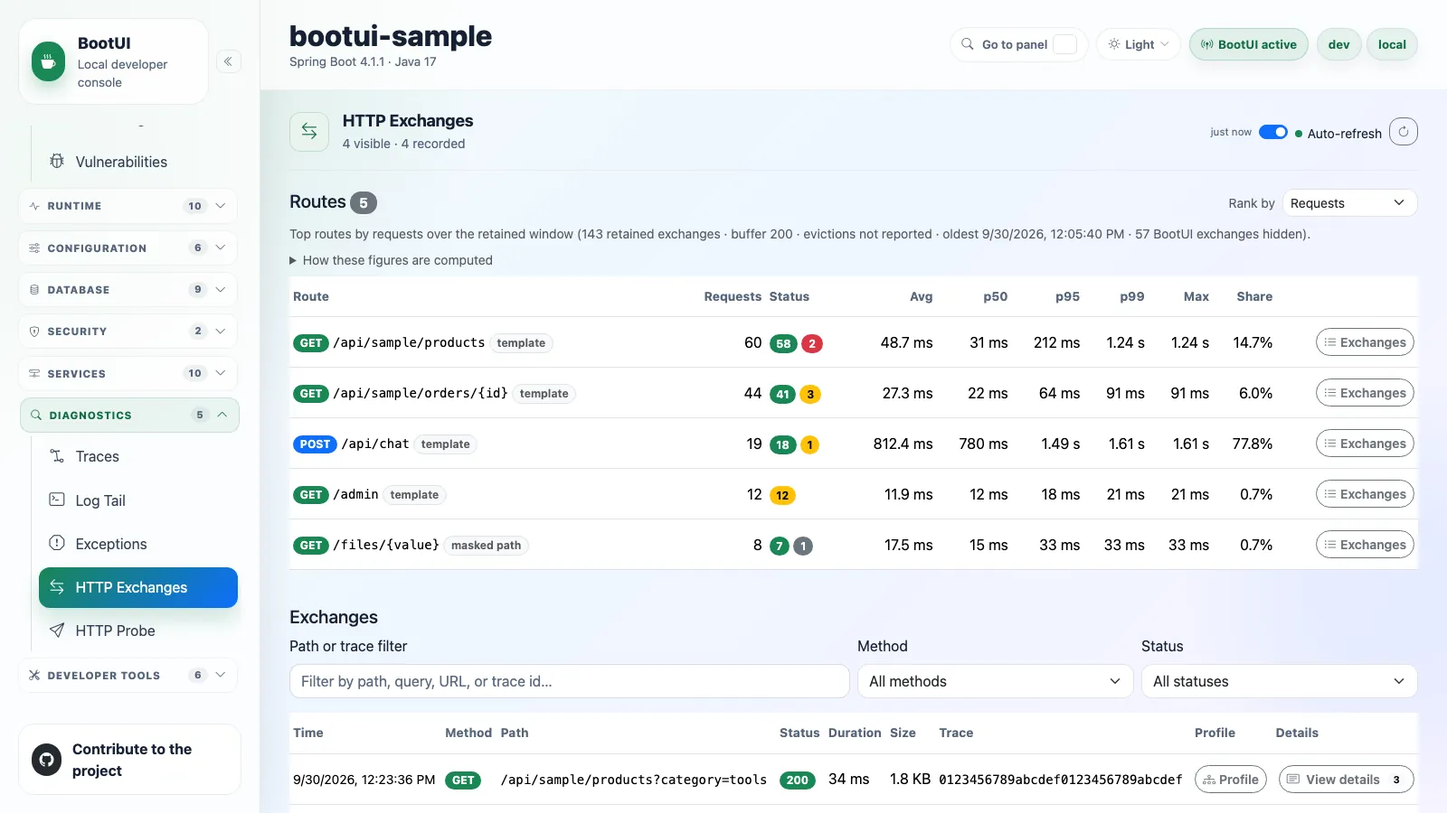
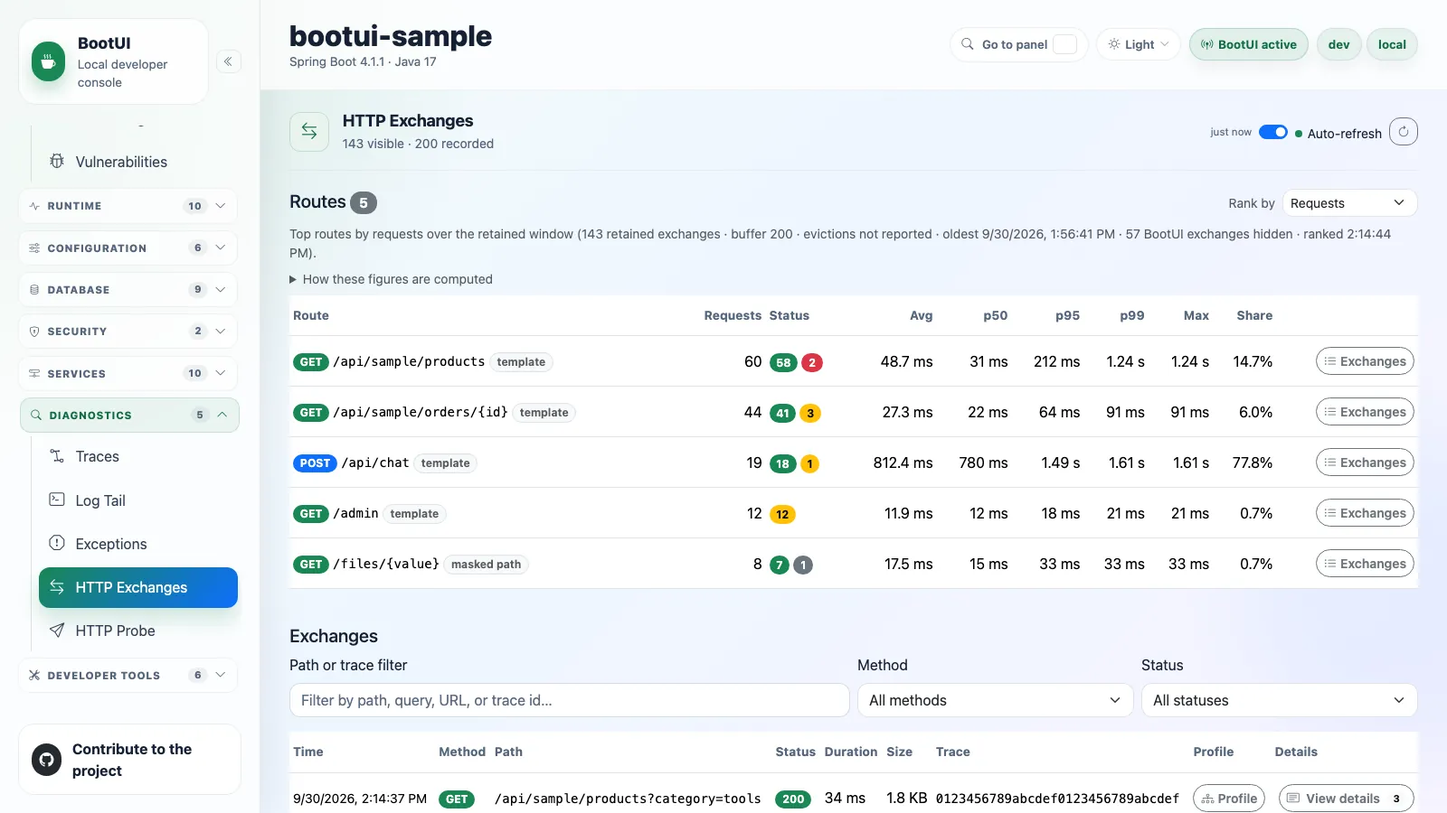
fix(http-exchanges): address verification-round findings
- Treat escaped braces in a variable pattern as regex text in both
  template scanners.
- Publish only the newest route-ranking response, so an older, unpinned
  response can never replace a newer pinned one.
- Count omitted routes against the rows actually displayed, pinned row
  included, and state omissions when no route scores on the criterion.
- Match Quarkus declared JAX-RS routes under quarkus.http.root-path and
  quarkus.rest.path, so a root-path application resolves its routes.
- Document that same-name variables with different patterns share a row,
  and make the docs screenshot fixtures consistent across panels.

diff --git a/bootui-ui/src/main/frontend/src/views/HttpExchanges.vue b/bootui-ui/src/main/frontend/src/views/HttpExchanges.vue
@@ -80,6 +80,9 @@ const subtitle = computed(
 
 let lastRoutesFetch = 0
 let forceNextRoutes = false
+// Only the newest ranking request may publish, so a slower, older response can never replace a newer one,
+// such as the response that pins a just-linked route.
+let routesGeneration = 0
 const routesFetchedAt = ref(null)
 
 async function loadRoutes(force = false) {
@@ -89,11 +92,15 @@ async function loadRoutes(force = false) {
   // Pinning the linked route makes the server return its row even when it is outside every top list.
   const pinned = highlightedRoute.value
   const url = pinned ? `api/http-exchanges/routes?route=${encodeURIComponent(pinned)}` : 'api/http-exchanges/routes'
+  const generation = ++routesGeneration
   try {
-    routesReport.value = await getJson(url)
+    const report = await getJson(url)
+    if (generation !== routesGeneration) return
+    routesReport.value = report
     routesError.value = null
     routesFetchedAt.value = Date.now()
   } catch (e) {
+    if (generation !== routesGeneration) return
     routesReport.value = null
     routesError.value = e?.message ? `Could not load route rankings: ${e.message}` : 'Could not load route rankings.'
   }
@@ -165,15 +172,16 @@ const displayedRoutes = computed(() =>
 const distinctRoutes = computed(() => routesReport.value?.distinctRoutes ?? allRoutes.value.length)
 
 // Why routes are missing from this ranking: the per-criterion cap, or a zero score on the criterion.
+// Why retained routes are not on screen: the per-criterion cap, a zero score on the criterion, or, when nothing
+// scores, the bounded union the server returned. Counted against the rows actually displayed, pinned row included.
 const rankingGap = computed(() => {
-  if (rankingMetricUnmeasured.value) return null
-  const shown = rankedRoutes.value.length
-  const missing = distinctRoutes.value - shown
+  const missing = distinctRoutes.value - displayedRoutes.value.length
   if (missing <= 0) return null
+  if (rankingMetricUnmeasured.value) return {reason: 'unranked', missing}
   // The server lists at most topPerCriterion routes for a criterion, taken from those that score on it. A
   // shorter list therefore already holds every scoring route, and the rest record nothing for this criterion.
-  const capped = shown >= (routesReport.value?.topPerCriterion ?? Infinity)
-  return {capped, missing}
+  const capped = rankedRoutes.value.length >= (routesReport.value?.topPerCriterion ?? Infinity)
+  return {reason: capped ? 'capped' : 'unscored', missing}
 })
 
 const highlightedRouteMissing = computed(
@@ -567,10 +575,15 @@ onMounted(() => {
       </div>
 
       <p v-if="rankingGap" class="text-muted small mb-0 http-routes-truncation">
-        <template v-if="rankingGap.capped">
+        <template v-if="rankingGap.reason === 'capped'">
           Showing the top {{ formatNumber(rankedRoutes.length) }} of {{ formatNumber(distinctRoutes) }} retained routes
           by {{ rankingMetricLabel.toLowerCase() }}; {{ formatNumber(rankingGap.missing) }} more
           {{ rankingGap.missing === 1 ? 'route is' : 'routes are' }} not shown.
+        </template>
+        <template v-else-if="rankingGap.reason === 'unranked'">
+          Showing {{ formatNumber(displayedRoutes.length) }} of {{ formatNumber(distinctRoutes) }} retained routes;
+          {{ formatNumber(rankingGap.missing) }} more {{ rankingGap.missing === 1 ? 'route is' : 'routes are' }} not
+          shown.
         </template>
         <template v-else>
           {{ formatNumber(rankingGap.missing) }} of {{ formatNumber(distinctRoutes) }} retained

diff --git a/bootui-ui/src/main/frontend/src/views/HttpExchanges.test.js b/bootui-ui/src/main/frontend/src/views/HttpExchanges.test.js
@@ -15,8 +15,12 @@ const RouterLinkStub = {
   template: '<a class="router-link-stub" :data-to="JSON.stringify(to)"><slot /></a>'
 }
 
+const mounted = []
+
 function mountExchanges() {
-  return mount(HttpExchanges, {global: {stubs: {RouterLink: RouterLinkStub}}})
+  const wrapper = mount(HttpExchanges, {global: {stubs: {RouterLink: RouterLinkStub}}})
+  mounted.push(wrapper)
+  return wrapper
 }
 
 function jsonResponse(body, ok = true, status = 200) {
@@ -61,6 +65,8 @@ describe('HTTP Exchanges', () => {
   afterEach(() => {
     vi.unstubAllGlobals()
     vi.useRealTimers()
+    // The route is shared and reactive, so a component left mounted would react to the next test's links.
+    mounted.splice(0).forEach((wrapper) => wrapper.unmount())
     routeState.query = {}
     router.replace.mockClear()
   })
@@ -368,6 +374,66 @@ describe('HTTP Exchanges', () => {
 
       expect(wrapper.find('.http-routes-truncation').text()).toContain('Showing the top 1 of 2 retained routes')
       expect(wrapper.find('.http-routes-truncation').text()).not.toContain('record no')
+    })
+
+    it('never lets an older ranking response replace a newer pinned one', async () => {
+      const pending = []
+      vi.stubGlobal(
+        'fetch',
+        vi.fn((url) => {
+          if (!String(url).startsWith('api/http-exchanges/routes')) return Promise.resolve(jsonResponse(report()))
+          return new Promise((resolve) => pending.push({url: String(url), resolve}))
+        })
+      )
+      const wrapper = mountExchanges()
+      await flushPromises()
+      expect(pending).toHaveLength(1)
+
+      routeState.query = {route: 'GET /rare'}
+      await flushPromises()
+      expect(pending).toHaveLength(2)
+      expect(pending[1].url).toContain('route=GET%20%2Frare')
+
+      pending[1].resolve(
+        jsonResponse(routesReport({routes: [route(), route({id: 'GET /rare', route: '/rare', topFor: []})]}))
+      )
+      await flushPromises()
+      pending[0].resolve(jsonResponse(routesReport()))
+      await flushPromises()
+
+      expect(wrapper.find('.http-routes-table tbody tr[data-route-id="GET /rare"]').exists()).toBe(true)
+      expect(wrapper.find('.http-routes-linked-hidden').exists()).toBe(false)
+    })
+
+    it('counts the pinned row as shown and states omissions when nothing scores', async () => {
+      routeState.query = {route: 'GET /rare'}
+      stubFetch(
+        routesReport({
+          routes: [route(), route({id: 'GET /rare', route: '/rare', topFor: []})],
+          topPerCriterion: 1,
+          routesTruncated: true,
+          distinctRoutes: 30
+        })
+      )
+      const wrapper = mountExchanges()
+      await flushPromises()
+
+      expect(wrapper.find('.http-routes-truncation').text()).toContain('28 more routes are not shown')
+
+      await wrapper.find('#http-routes-metric').setValue('errorCount')
+      stubFetch(
+        routesReport({
+          routes: [route({errorCount: 0, status4xx: 0, status5xx: 0, topFor: ['REQUESTS']})],
+          topPerCriterion: 1,
+          routesTruncated: true,
+          distinctRoutes: 40
+        })
+      )
+      await wrapper.find('button[title="Refresh"]').trigger('click')
+      await flushPromises()
+
+      expect(wrapper.find('.http-routes-truncation').text()).toContain('Showing 1 of 40 retained routes')
+      expect(wrapper.find('.http-routes-truncation').text()).toContain('39 more routes are not shown')
     })
 
     it('keeps the chosen ranking in the URL so a drill-down never snaps it back', async () => {

diff --git a/bootui-quarkus/src/main/java/io/github/jdubois/bootui/quarkus/web/DeclaredRouteTemplates.java b/bootui-quarkus/src/main/java/io/github/jdubois/bootui/quarkus/web/DeclaredRouteTemplates.java
@@ -4,8 +4,11 @@ import io.github.jdubois.bootui.core.dto.MappingDto;
 import io.github.jdubois.bootui.engine.sqltrace.RouteTemplateResolver;
 import io.github.jdubois.bootui.spi.MappingProvider;
 import jakarta.enterprise.inject.Instance;
+import java.util.ArrayList;
 import java.util.List;
 import java.util.function.Supplier;
+import org.eclipse.microprofile.config.Config;
+import org.eclipse.microprofile.config.ConfigProvider;
 
 /**
  * The application's declared JAX-RS routes, captured at build time for the Mappings panel. RESTEasy Reactive
@@ -14,8 +17,18 @@ import java.util.function.Supplier;
  * Live Activity slowest-request KPI all match the captured path against these declarations instead, the same
  * way. An absent, unavailable or failing provider — production, or a build without the mappings build step —
  * simply means no templates.
+ *
+ * <p>The build-time patterns are relative to the application, while a captured request path carries
+ * {@code quarkus.http.root-path} and {@code quarkus.rest.path}. Both prefixes are therefore added to every
+ * pattern, so {@code /app/widgets} still matches {@code @Path("/widgets")} under root path {@code /app}. A
+ * prefix contributed only by {@code @ApplicationPath} is not known at runtime; such paths fall back to masked
+ * paths.</p>
  */
 final class DeclaredRouteTemplates {
+
+    private static final String ROOT_PATH_KEY = "quarkus.http.root-path";
+
+    private static final String REST_PATH_KEY = "quarkus.rest.path";
 
     private DeclaredRouteTemplates() {}
 
@@ -42,6 +55,54 @@ final class DeclaredRouteTemplates {
             return List.of();
         }
         MappingProvider provider = mappings.get();
-        return provider.available() ? provider.mappings() : List.of();
+        return provider.available() ? mounted(provider.mappings(), mountPrefix()) : List.of();
+    }
+
+    /** {@code declared} with {@code prefix} added to every pattern, as requests under that mount arrive. */
+    static List<MappingDto> mounted(List<MappingDto> declared, String prefix) {
+        if (declared == null || prefix == null || prefix.isEmpty()) {
+            return declared == null ? List.of() : declared;
+        }
+        List<MappingDto> mounted = new ArrayList<>(declared.size());
+        for (MappingDto mapping : declared) {
+            if (mapping == null || mapping.pattern() == null) {
+                continue;
+            }
+            String pattern = mapping.pattern().startsWith("/") ? mapping.pattern() : "/" + mapping.pattern();
+            mounted.add(new MappingDto(
+                    mapping.method(),
+                    "/".equals(pattern) ? prefix : prefix + pattern,
+                    mapping.handler(),
+                    mapping.produces(),
+                    mapping.consumes()));
+        }
+        return mounted;
+    }
+
+    /** The live {@code quarkus.http.root-path} followed by {@code quarkus.rest.path}, or {@code ""}. */
+    static String mountPrefix() {
+        try {
+            Config config = ConfigProvider.getConfig();
+            return normalize(
+                            config.getOptionalValue(ROOT_PATH_KEY, String.class).orElse("/"))
+                    + normalize(
+                            config.getOptionalValue(REST_PATH_KEY, String.class).orElse("/"));
+        } catch (RuntimeException ex) {
+            return "";
+        }
+    }
+
+    static String normalize(String raw) {
+        if (raw == null || raw.isBlank()) {
+            return "";
+        }
+        String trimmed = raw.trim();
+        if (!trimmed.startsWith("/")) {
+            trimmed = "/" + trimmed;
+        }
+        while (trimmed.length() > 1 && trimmed.endsWith("/")) {
+            trimmed = trimmed.substring(0, trimmed.length() - 1);
+        }
+        return "/".equals(trimmed) ? "" : trimmed;
     }
 }

diff --git a/bootui-quarkus/src/test/java/io/github/jdubois/bootui/quarkus/web/DeclaredRouteTemplatesTest.java b/bootui-quarkus/src/test/java/io/github/jdubois/bootui/quarkus/web/DeclaredRouteTemplatesTest.java
@@ -1,0 +1,42 @@
+package io.github.jdubois.bootui.quarkus.web;
+
+import static org.assertj.core.api.Assertions.assertThat;
+
+import io.github.jdubois.bootui.core.dto.MappingDto;
+import io.github.jdubois.bootui.engine.sqltrace.RouteLabel;
+import io.github.jdubois.bootui.engine.sqltrace.RouteTemplateResolver;
+import java.util.List;
+import org.junit.jupiter.api.Test;
+
+class DeclaredRouteTemplatesTest {
+
+    private static final List<MappingDto> DECLARED = List.of(
+            new MappingDto("GET", "/users/{name}", "UserResource#get", null, null),
+            new MappingDto("GET", "/", "RootResource#index", null, null));
+
+    @Test
+    void mountsDeclaredPatternsUnderTheRootAndRestPathsRequestsArriveOn() {
+        RouteTemplateResolver resolver = RouteTemplateResolver.of(DeclaredRouteTemplates.mounted(DECLARED, "/app/api"));
+
+        RouteLabel label = RouteLabel.of("GET", "/app/api/users/alice", null, resolver);
+
+        assertThat(label.source()).isEqualTo(RouteLabel.Source.DECLARED_MAPPING);
+        assertThat(label.route()).isEqualTo("/app/api/users/{name}");
+        assertThat(label.id()).doesNotContain("alice");
+        assertThat(resolver.resolve("/app/api")).isEqualTo("/app/api");
+    }
+
+    @Test
+    void leavesPatternsAloneWithoutAMountPrefix() {
+        assertThat(DeclaredRouteTemplates.mounted(DECLARED, "")).isSameAs(DECLARED);
+        assertThat(DeclaredRouteTemplates.mounted(null, "/app")).isEmpty();
+    }
+
+    @Test
+    void normalizesMountPathsLikeQuarkusDoes() {
+        assertThat(DeclaredRouteTemplates.normalize(null)).isEmpty();
+        assertThat(DeclaredRouteTemplates.normalize("/")).isEmpty();
+        assertThat(DeclaredRouteTemplates.normalize("app/")).isEqualTo("/app");
+        assertThat(DeclaredRouteTemplates.normalize(" /api// ")).isEqualTo("/api");
+    }
+}

diff --git a/bootui-engine/src/main/java/io/github/jdubois/bootui/engine/sqltrace/RouteTemplateResolver.java b/bootui-engine/src/main/java/io/github/jdubois/bootui/engine/sqltrace/RouteTemplateResolver.java
@@ -250,6 +250,12 @@ public final class RouteTemplateResolver {
         StringBuilder variable = null;
         for (int i = 0; i < segment.length(); i++) {
             char c = segment.charAt(i);
+            if (c == '\\' && i + 1 < segment.length()) {
+                // An escaped brace inside a variable's pattern is regex text, not template structure.
+                (depth > 0 ? variable : out).append(c).append(segment.charAt(i + 1));
+                i++;
+                continue;
+            }
             if (c == '{') {
                 if (depth == 0) {
                     variable = new StringBuilder();
@@ -296,6 +302,11 @@ public final class RouteTemplateResolver {
         String trimmed = template.trim();
         for (int i = 0; i < trimmed.length(); i++) {
             char c = trimmed.charAt(i);
+            if (c == '\\' && i + 1 < trimmed.length()) {
+                current.append(c).append(trimmed.charAt(i + 1));
+                i++;
+                continue;
+            }
             if (c == '{') {
                 depth++;
             } else if (c == '}' && depth > 0) {

diff --git a/bootui-quarkus-integration-tests/base/src/test/java/io/github/jdubois/bootui/quarkus/it/BootUiQuarkusHttpExchangesRootPathCaptureTest.java b/bootui-quarkus-integration-tests/base/src/test/java/io/github/jdubois/bootui/quarkus/it/BootUiQuarkusHttpExchangesRootPathCaptureTest.java
@@ -87,6 +87,22 @@ class BootUiQuarkusHttpExchangesRootPathCaptureTest {
                 .isTrue();
     }
 
+    /**
+     * The declared JAX-RS patterns are relative to the application, so they are matched under the same root
+     * path the captured request carries: {@code /app/widgets} resolves to its declared route, not a masked path.
+     */
+    @Test
+    void routeRankingsResolveDeclaredRoutesUnderTheRootPath() {
+        BootUiHttpProbe probe = probe();
+        probe.get("/app/widgets");
+
+        Response report = probe.get("/app/bootui/api/http-exchanges?q=widgets");
+        JsonNode exchange = report.json().path("exchanges").path(0);
+        assertThat(exchange.path("path").asText()).isEqualTo("/app/widgets");
+        assertThat(exchange.path("route").asText()).isEqualTo("/app/widgets");
+        assertThat(exchange.path("routeSource").asText()).isEqualTo("DECLARED_MAPPING");
+    }
+
     public static final class RootPathProfile implements QuarkusTestProfile {
         @Override
         public Map<String, String> getConfigOverrides() {

diff --git a/bootui-engine/src/test/java/io/github/jdubois/bootui/engine/sqltrace/RouteLabelTests.java b/bootui-engine/src/test/java/io/github/jdubois/bootui/engine/sqltrace/RouteLabelTests.java
@@ -111,6 +111,20 @@ class RouteLabelTests {
     }
 
     @Test
+    void anEscapedBraceInAVariablePatternIsRegexTextNotStructure() {
+        String template = "/files/{id:[a-z]+\\{}/details";
+        RouteTemplateResolver declared = RouteTemplateResolver.of(List.of(mapping("GET", template)));
+
+        assertThat(RouteTemplateResolver.canonical(template)).isEqualTo("/files/{id}/details");
+        assertThat(RouteTemplateResolver.canonical("/files/{id:[a-z]+\\}}/x")).isEqualTo("/files/{id}/x");
+        RouteLabel resolved = RouteLabel.of("GET", "/files/abc/details", null, declared);
+        assertThat(resolved.route()).isEqualTo("/files/{id}/details");
+        assertThat(resolved.id())
+                .isEqualTo(RouteLabel.of("GET", "/files/abc/details", template, declared)
+                        .id());
+    }
+
+    @Test
     void maskedPathNeverExposesAPathParameterValueOrQueryString() {
         RouteLabel label = RouteLabel.of(
                 "DELETE",

diff --git a/docs/QUARKUS-SUPPORT.md b/docs/QUARKUS-SUPPORT.md
@@ -300,7 +300,7 @@ The DTO and UI are reused; the Quarkus adapter rebuilds the capture/source on th
 | `SQL Trace`           | **Implemented** — two complementary feeders into the shared `SqlTraceRecorder`: an `@Alternative` Agroal `DataSource` wrap (manual JDBC, gated on Agroal) **and** a `@PersistenceUnitExtension` Hibernate `StatementInspector` (ORM SQL, which bypasses the wrapped DataSource; gated on Hibernate). Statement text/type/category/N+1 full-fidelity; per-statement duration/rows/params are best-effort for ORM SQL (the StatementInspector SPI has no execution-end hook). Call-site capture (`bootui.sql-trace.capture-call-site`, default `true`) runs once at the shared `SqlTraceRecorder.record(...)` choke point both feeders call into, so it is byte-identical to Spring on both feeders with no extra per-feeder code. `clear`/`recording` behind the `LocalhostGuard` write floor. Statement rankings and request-route attribution (`GET /bootui/api/sql-trace/insights`) run on the same framework-neutral `SqlTraceInsightsService` as both Spring stacks, with request evidence read from the engine's own `HttpExchangeBuffer`. **Two honest fidelity gaps:** correlation is `TRACE_ID` + `TIME_WINDOW` only — the Vert.x event loop gives no reliable thread-per-request anchor, exactly as for Live Activity above — and RESTEasy Reactive exposes no per-request route template to the adapter, so the route key is resolved *after the fact* against the application's own declared JAX-RS mappings (read from the Mappings panel's build-time `QuarkusMappingProvider`, so no new route enumeration is introduced): a captured path is labelled `ROUTE_TEMPLATE` only when exactly one declaration matches it segment for segment and is strictly the most literal match, and falls back to a **masked path** (identifier-looking segments replaced with `{value}`, query string discarded) otherwise. That fallback matters for privacy as much as for grouping — masking alone cannot tell a word-shaped path parameter such as `/api/users/alice` from a fixed segment, and the declared template can. Both are declared in the payload (`supportedCorrelations`, `routeSource`) so the UI states them instead of silently degrading |
 | `REST Client`         | **Implemented** — when `Capability.REST_CLIENT_REACTIVE` is present, a generated `RestClientListener` service-provider entry attaches `QuarkusRestClientTraceFilter` to every REST Client Reactive proxy and feeds the shared `RestClientTraceRecorder`. The listener type is excluded and no provider entry is generated when the optional extension is absent, so an app without REST Client starts without linking the optional API. Listener lookup is lazy through the running Arc container because Quarkus constructs proxies after CDI startup. The filter runs after application request filters and before application response filters, captures metadata only (never payloads or arbitrary headers), strips URI user-info/fragments, masks sensitive path/query values before storage, and isolates all capture failures from application calls. Real `4xx`/`5xx` responses are successful transports; Quarkus's status `0` callback records a pre-response transport failure with a null HTTP status. The active trace id is snapshotted in the request filter because the response callback can run after OpenTelemetry detaches its context; application call-site attribution is likewise best-effort after that reactive handoff. `clear`/`recording` are behind the shared write and panel read-only gates; SSE and Live Activity update on each mutation/call. Manifest availability is capability-driven because proxies initialize lazily; the report remains honest until one has been instrumented. |
 | `Live Activity`       | **Implemented** — merges the nine captured signals into the shared feed, with trace-id-based request correlation, a red **N+1** badge from the shared `SqlTraceGrouping`, SmallRye Kafka/RabbitMQ messaging capture, captured `MAIL` events, an optional durable JDBC persistence backend, and the Live flow service map. Cache (`CACHE`) events are **not** captured on Quarkus. See the details blocks below the table. |
-| `HTTP Exchanges`      | **Implemented** — buffer exchanges via a Vert.x filter instead of Actuator's repository. Route rankings (`GET /bootui/api/http-exchanges/routes`) run on the shared `HttpRouteSummaryService`; with no runtime route template, routes resolve from the declared JAX-RS mappings (`DECLARED_MAPPING`), then a masked path, exactly as SQL Trace attributes them here. The buffer reports its capacity but not evictions, and BootUI's own traffic is dropped before recording, so the hidden-self count stays `0` |
+| `HTTP Exchanges`      | **Implemented** — buffer exchanges via a Vert.x filter instead of Actuator's repository. Route rankings (`GET /bootui/api/http-exchanges/routes`) run on the shared `HttpRouteSummaryService`; with no runtime route template, routes resolve from the declared JAX-RS mappings (`DECLARED_MAPPING`), matched under `quarkus.http.root-path` and `quarkus.rest.path`, then a masked path, exactly as SQL Trace attributes them here. A prefix from `@ApplicationPath` alone is not known at runtime. The buffer reports its capacity but not evictions, and BootUI's own traffic is dropped before recording, so the hidden-self count stays `0` |
 | `Exceptions`          | **Implemented** — captured into the shared `ExceptionStore` by **three** feeders, deduped across feeders across the whole cause chain; BootUI's own frames self-filtered. `QuarkusExceptionLogHandler` (a `java.util.logging` handler) catches logged throwables, and `QuarkusExceptionCaptureFilter` (a Vert.x failure handler) catches unhandled web failures; Quarkus logs an unhandled request failure synchronously (`QuarkusErrorHandler`) before the Vert.x failure handler's late `addBodyEndHandler` callback runs, so the log handler is normally the feeder the store's dedup keeps for that case; it resolves the owning request's method/path itself from the CDI-current `CurrentVertxRequest`, so both feeders carry full web context. Neither feeder, however, observes an exception that a custom `jakarta.ws.rs.ext.ExceptionMapper`/`@ServerExceptionMapper` resolves without logging it — RESTEasy Reactive never calls `RoutingContext.fail(...)` once a mapper has produced a response, so that class of failure (Quarkus's analogue of a Spring `@ExceptionHandler`) was invisible. `QuarkusPreMappingExceptionCaptureHandler` closes that gap: it is installed via the RESTEasy Reactive `PreExceptionMapperHandlerBuildItem` build item (the same first-party extension point Quarkus's own OpenTelemetry extension uses to attach exception info to the active span before mapping), which Quarkus guarantees runs for **every** exception about to be resolved by any mapper, mapped or not — so it is now normally the earliest, and hence dedup-winning, feeder for any exception dispatched through the JAX-RS chain, while the other two feeders remain the safety net for logged-but-unmapped failures and non-JAX-RS Vert.x routes. Being a build-time `ServerRestHandler` instance (not a CDI bean), it resolves `ExceptionStore`/`TraceIdProvider` lazily per invocation via `Arc.container()`, matching Quarkus's own `AttachExceptionHandler` precedent. This brings Quarkus to parity with Spring's `BootUiExceptionHandlerResolver` (a `HandlerExceptionResolver` at `HIGHEST_PRECEDENCE` that captures every `@ExceptionHandler`-resolved exception the same way). The `handler` field (the JAX-RS resource class + method serving the request, e.g. `MyResource#doSomething`, matching Spring's `HandlerMethod`-derived format) is resolved the same way by `QuarkusResourceHandlers`, reading RESTEasy Reactive's current-request state (`CurrentRequestManager`/`ResteasyReactiveResourceInfo`, the same mechanism `quarkus-rest-jackson` itself uses for per-method `@JsonView` resolution) — populated/cleared in lockstep with the `CurrentVertxRequest` above, so it survives the same event-loop→worker hop. The Open/Acknowledged/Resolved triage workflow and regression auto-reopen (a `Resolved` group that fires again flips back to `Open` and increments a `regressionCount`) live entirely in the shared `ExceptionStore`/`ExceptionsService`, so they are identical on Quarkus; `ExceptionsResource` exposes the same `POST /bootui/api/exceptions/{id}/status` with the same validation/status codes as Spring's `ExceptionsController`, behind the same `LocalhostGuard` write floor |
 | `Security Logs`       | **Implemented** — captures Quarkus CDI security events into the shared `SecurityEventBuffer` via `QuarkusSecurityEventCapture` (a `@Observes SecurityEvent` observer), which replaces Spring's `AuditEventRepository`. Gated on `quarkus-security` (the observer is excluded by the deployment processor when no security extension is present, R2) and `quarkus.security.events.enabled=true` (panel reports unavailable with a clear message when events are disabled). Honest partial: Quarkus fires events only for authentication success/failure and authorization failure — no logout or session events (no Quarkus equivalent). SSE `/stream` ticks on each capture. Read-only (no write endpoints) |
 | `Log Tail`            | **Implemented** — captured via a `java.util.logging` `Handler` (`QuarkusLogTailHandler`) attached to the root JBoss LogManager logger at `StartupEvent` (detached at `ShutdownEvent` so dev-mode restarts never leak handlers). The handler feeds the shared `LogTailBuffer`; both `/recent` (snapshot) and the SSE `/stream` (live fan-out with atomic snapshot-then-subscribe to avoid gaps) are full-fidelity. BootUI's own loggers are self-filtered. Identical wire to Spring's Logback appender path |

diff --git a/docs/features/diagnostics.md b/docs/features/diagnostics.md
@@ -165,7 +165,11 @@ three sources it came from:
 | `masked path` | No template matched, so every path segment that reads like a value is replaced with `{value}`. |
 
 A template is shown the same way whichever source produced it, so `{id:[0-9]+}` reads `{id}` and a route never splits
-into two rows, while a catch-all such as `/**` is kept as declared, so it never merges with a masked path. Quarkus has no runtime route template, so its routes come from the declared JAX-RS mappings. Spring
+into two rows, while a catch-all such as `/**` is kept as declared, so it never merges with a masked path. Two
+handlers on the same method and path that differ only in their variable patterns, such as `{id:[0-9]+}` and
+`{id:[a-z]+}`, therefore share one row: a pattern is never shown. Quarkus has no runtime route template, so its routes come from the declared JAX-RS mappings, matched under
+`quarkus.http.root-path` and `quarkus.rest.path`; a prefix contributed only by `@ApplicationPath` is not known at
+runtime, so those routes fall back to masked paths. Spring
 WebFlux records the matched handler pattern with the OpenTelemetry integration, which the reactive starter includes;
 without it, WebFlux routes fall back to masked paths, and the panel says so. Query strings are never part of a route.
 

diff --git a/CHANGELOG.md b/CHANGELOG.md
@@ -31,6 +31,8 @@ to [Semantic Versioning](https://semver.org/spec/v2.0.0.html).
   framework template the way it renders a declared one, so `/orders/{id:[0-9]+}` reads `/orders/{id}`, while a wildcard
   such as `/**` is kept as declared. A variable's pattern may now contain `?` or `/` without truncating the route. When declared mappings are ambiguous, a masked path now also masks every segment they mark
   as a parameter, and a brace-delimited segment on a real request is masked rather than trusted as template syntax.
+  On Quarkus, declared JAX-RS routes are now matched under `quarkus.http.root-path` and `quarkus.rest.path`, so SQL
+  Trace attributes requests to their declared route instead of a masked path when the application has a root path.
 - **Quarkus 3.33.3.3.** The Quarkus extension, integration tests, and sample app move to Quarkus 3.33.3.3, the
   newest micro release of the 3.33 LTS stream.
 
